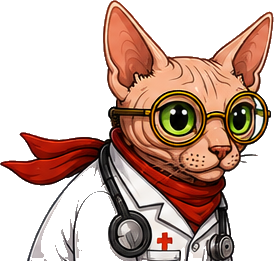
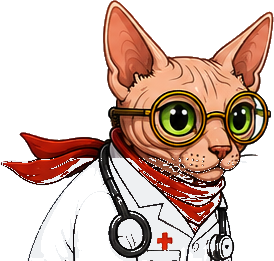
fix: bata del doctor rellena y reposicionada (se integra bien al vagon)
El corte de la bata dejaba ver el escote en V (dos solapas con el
pecho del gato entre ellas), asi que al taparla el vagon quedaban
trozos de solapa asimetricos: un pico blanco cortado al costado.

Se re-extrajo el doctor rellenando de blanco la parte baja de la bata
(cierra la V: todo pixel opaco que no sea rojo -bufanda- ni oscuro
-contorno/estetoscopio- se pinta con el blanco de la bata). Ahora la
bata se ve como una prenda solida que entra al vagon. dy vuelve de 20
a 8 (ya no hace falta hundirla tanto). Verificado con Sprites.drawPlayer
sobre fondo oscuro. sw.js v33.

diff --git a/js/skins.js b/js/skins.js
@@ -41,10 +41,10 @@ const Skins = (() => {
     { id: 'sphynx', nameKey: 'skinSphynx', src: 'img/char-sphynx.png', price: 0, rarity: null, renderW: 118, dx: 6, dy: 0 },
     // Común
     { id: 'pirata', nameKey: 'skinPirata', src: 'img/skin-pirata.png', rarity: 'comun', renderW: 120, dx: 4, dy: 0 },
-    // dy bajo: hunde la bata blanca tras el borde del vagón para que su
-    // corte recto no asome como una línea blanca (el resto de skins tapan
-    // esa zona con pelaje oscuro; la bata clara resaltaba).
-    { id: 'doctor', nameKey: 'skinDoctor', src: 'img/skin-doctor.png', rarity: 'comun', renderW: 116, dx: 2, dy: 20 },
+    // La bata del doctor se rellenó de blanco en su parte baja (se cerró
+    // la V del escote) para que se vea como una bata sólida entrando al
+    // vagón, no como trozos de solapa cortados. dy leve para asentarla.
+    { id: 'doctor', nameKey: 'skinDoctor', src: 'img/skin-doctor.png', rarity: 'comun', renderW: 116, dx: 2, dy: 8 },
     { id: 'bebe', nameKey: 'skinBebe', src: 'img/skin-bebe.png', rarity: 'comun', renderW: 112, dx: 0, dy: 0, front: true },
     { id: 'siames', nameKey: 'skinSiames', src: 'img/skin-siames.png', rarity: 'comun', renderW: 120, dx: 4, dy: 0 },
     { id: 'naranja', nameKey: 'skinNaranja', src: 'img/skin-naranja.png', rarity: 'comun', renderW: 120, dx: 4, dy: 0 },

diff --git a/sw.js b/sw.js
@@ -3,7 +3,7 @@
 // Service worker: estrategia red-primero con respaldo en caché.
 // Online siempre sirve la última versión; offline sirve la copia
 // guardada. Sube CACHE_VERSION al publicar cambios importantes.
-const CACHE_VERSION = 'mca-v32';
+const CACHE_VERSION = 'mca-v33';
 
 const ASSETS = [
   './',
